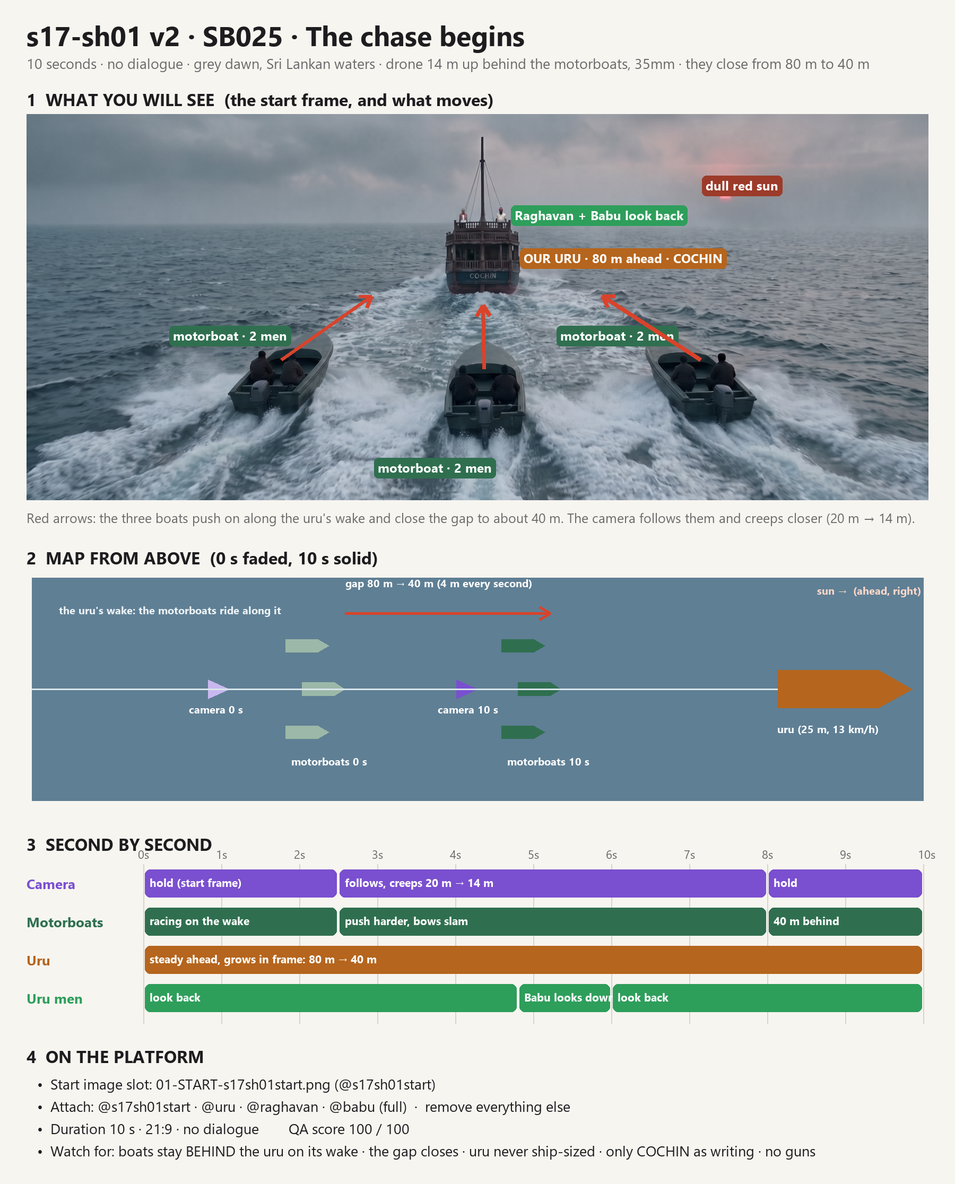
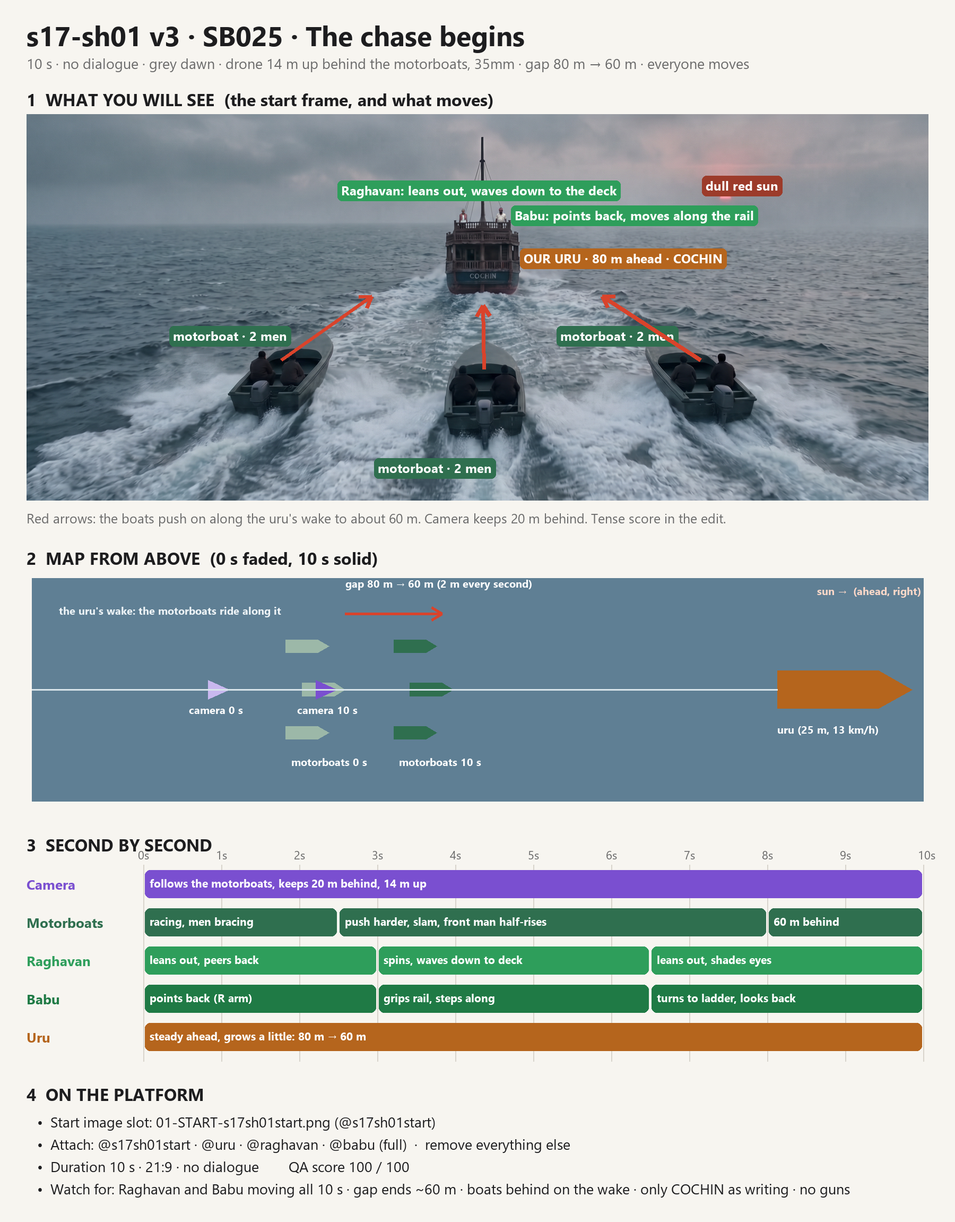
Ranjith: shot: s17-sh01 v3 (everyone moving per L83, gap 80 to 60 m, urgent sound; v2 take logged partial)

diff --git a/tools/shotsheets/s17-sh01.py b/tools/shotsheets/s17-sh01.py
@@ -16,8 +16,8 @@ def tag(xy, text, col, f=None):
     f = f or F(24, True); x, y = xy; tw = d.textlength(text, font=f)
     d.rounded_rectangle([x - 6, y - 4, x + tw + 8, y + 34], 8, fill=col); d.text((x + 1, y - 2), text, font=f, fill="white")
 
-d.text((50, 30), "s17-sh01 v2 · SB025 · The chase begins", font=F(52, True), fill=INK)
-d.text((50, 100), "10 seconds · no dialogue · grey dawn, Sri Lankan waters · drone 14 m up behind the motorboats, 35mm · they close from 80 m to 40 m", font=F(27), fill=GREY)
+d.text((50, 30), "s17-sh01 v3 · SB025 · The chase begins", font=F(52, True), fill=INK)
+d.text((50, 100), "10 s · no dialogue · grey dawn · drone 14 m up behind the motorboats, 35mm · gap 80 m → 60 m · everyone moves", font=F(27), fill=GREY)
 
 # 1. start frame with tags and arrows
 y0 = 165
@@ -27,13 +27,13 @@ fw = W - 100; fh = int(fr.height * fw / fr.width); fr = fr.resize((fw, fh)); ox,
 im.paste(fr, (ox, oy)); s = fw / 2000 * (3168 / 3136)
 P = lambda x, y: (ox + (x * 1.584 - 16) * fw / 3136, oy + y * 1.584 * fh / 1344)
 tag(P(1100, 300), "OUR URU · 80 m ahead · COCHIN", URU)
-tag(P(1080, 205), "Raghavan + Babu look back", MEN)
+tag(P(700, 150), "Raghavan: leans out, waves down to the deck", MEN); tag(P(1080, 205), "Babu: points back, moves along the rail", MEN)
 tag(P(330, 470), "motorboat · 2 men", MOT); tag(P(1180, 470), "motorboat · 2 men", MOT); tag(P(780, 760), "motorboat · 2 men", MOT)
 for bx, by in [(570, 540), (1015, 560), (1490, 540)]:
     arrow(P(bx, by), P(bx + (1010 - bx) * 0.45, by - 140), RED)
 tag(P(1500, 140), "dull red sun", "#9c3b2a")
 cy = oy + fh + 16
-d.text((50, cy), "Red arrows: the three boats push on along the uru's wake and close the gap to about 40 m. The camera follows them and creeps closer (20 m → 14 m).", font=F(25), fill=GREY)
+d.text((50, cy), "Red arrows: the boats push on along the uru's wake to about 60 m. Camera keeps 20 m behind. Tense score in the edit.", font=F(25), fill=GREY)
 
 # 2. map from above
 y1 = cy + 70
@@ -47,11 +47,11 @@ def boat(x, y, L, B, col):
 # 10 s positions (uru frame of reference: uru fixed)
 URU0 = 108   # uru stern x
 for t, alpha in [(0, True), (10, False)]:
-    lead = URU0 - (80 if t == 0 else 40) - 8
+    lead = URU0 - (80 if t == 0 else 60) - 8
     cols = "#9cb8a8" if alpha else MOT
     for dx, dy in [(0, 0), (-3, -8), (-3, 8)]:
         boat(lead + dx, dy, 8, 2.4, cols)
-    camx = lead - (20 if t == 0 else 14) + 4
+    camx = lead - 20 + 4
     c = M(camx, 0); col = "#c9b8ef" if alpha else CAM
     d.polygon([(c[0] + 26, c[1]), (c[0] - 14, c[1] - 18), (c[0] - 14, c[1] + 18)], fill=col)
     d.text((c[0] - 50, c[1] + 24), f"camera {t} s", font=F(20, True), fill="white")
@@ -59,7 +59,7 @@ for t, alpha in [(0, True), (10, False)]:
 boat(URU0, 0, 25, 7, URU); d.text(M(URU0, 6), "uru (25 m, 13 km/h)", font=F(20, True), fill="white")
 d.line([M(URU0, 0), M(-30, 0)], fill="#d8e4ea", width=3)
 d.text(M(-25, -16), "the uru's wake: the motorboats ride along it", font=F(20, True), fill="#eef4f7")
-arrow(M(URU0 - 80, -14), M(URU0 - 42, -14), RED, 5); d.text(M(URU0 - 80, -21), "gap 80 m → 40 m (4 m every second)", font=F(20, True), fill="white")
+arrow(M(URU0 - 80, -14), M(URU0 - 62, -14), RED, 5); d.text(M(URU0 - 80, -21), "gap 80 m → 60 m (2 m every second)", font=F(20, True), fill="white")
 d.text((mx + mw - 200, my + 10), "sun →  (ahead, right)", font=F(20, True), fill="#ffd9c9")
 
 # 3. timeline
@@ -67,11 +67,12 @@ y2 = my + mh + 60
 d.text((50, y2), "3  SECOND BY SECOND", font=F(32, True), fill=INK)
 tx, tw_ = 270, 1470; ty = y2 + 60
 for sec in range(11):
-    x = tx + tw_ * sec / 10; d.line([x, ty, x, ty + 300], fill="#d8d4cc", width=2); d.text((x - 10, ty - 34), f"{sec}s", font=F(22), fill=GREY)
-rows = [("Camera", CAM, [(0, 2.5, "hold (start frame)"), (2.5, 8, "follows, creeps 20 m → 14 m"), (8, 10, "hold")]),
-        ("Motorboats", MOT, [(0, 2.5, "racing on the wake"), (2.5, 8, "push harder, bows slam"), (8, 10, "40 m behind")]),
-        ("Uru", URU, [(0, 10, "steady ahead, grows in frame: 80 m → 40 m")]),
-        ("Uru men", MEN, [(0, 4.8, "look back"), (4.8, 6, "Babu looks down"), (6, 10, "look back")])]
+    x = tx + tw_ * sec / 10; d.line([x, ty, x, ty + 370], fill="#d8d4cc", width=2); d.text((x - 10, ty - 34), f"{sec}s", font=F(22), fill=GREY)
+rows = [("Camera", CAM, [(0, 10, "follows the motorboats, keeps 20 m behind, 14 m up")]),
+        ("Motorboats", MOT, [(0, 2.5, "racing, men bracing"), (2.5, 8, "push harder, slam, front man half-rises"), (8, 10, "60 m behind")]),
+        ("Raghavan", MEN, [(0, 3, "leans out, peers back"), (3, 6.5, "spins, waves down to deck"), (6.5, 10, "leans out, shades eyes")]),
+        ("Babu", "#1f7a45", [(0, 3, "points back (R arm)"), (3, 6.5, "grips rail, steps along"), (6.5, 10, "turns to ladder, looks back")]),
+        ("Uru", URU, [(0, 10, "steady ahead, grows a little: 80 m → 60 m")])]
 for i, (lab, col, segs) in enumerate(rows):
     yy = ty + 10 + i * 72; d.text((50, yy + 8), lab, font=F(26, True), fill=col)
     for a, b, t in segs:
@@ -79,12 +80,12 @@ for i, (lab, col, segs) in enumerate(rows):
         d.rounded_rectangle([x0 + 3, yy, x1 - 3, yy + 52], 10, fill=col); d.text((x0 + 12, yy + 10), t, font=F(21, True), fill="white")
 
 # 4. platform
-y3 = ty + 340
+y3 = ty + 410
 d.text((50, y3), "4  ON THE PLATFORM", font=F(32, True), fill=INK)
 lines = ["Start image slot: 01-START-s17sh01start.png (@s17sh01start)",
          "Attach: @s17sh01start · @uru · @raghavan · @babu (full)  ·  remove everything else",
          "Duration 10 s · 21:9 · no dialogue        QA score 100 / 100",
-         "Watch for: boats stay BEHIND the uru on its wake · the gap closes · uru never ship-sized · only COCHIN as writing · no guns"]
+         "Watch for: Raghavan and Babu moving all 10 s · gap ends ~60 m · boats behind on the wake · only COCHIN as writing · no guns"]
 for i, t in enumerate(lines): d.text((70, y3 + 55 + i * 42), "•  " + t, font=F(27), fill=INK)
 im = im.crop((0, 0, W, y3 + 55 + len(lines) * 42 + 40))
 im.save("scenes/showreel/storyboards/s17-sh01-clear.png"); print(im.size)

diff --git a/scenes/showreel/s17-sh01.md b/scenes/showreel/s17-sh01.md
@@ -1,80 +1,85 @@
-# s17-sh01 · SB025 (Ref 17–19) "Antony takes the helm" — the chase begins: three motorboats close on our uru · 10 s · v2
-Status: **ready (Ranjith, 2026-11-19)** · no dialogue · opens SB025 · v1 retired (`retired/s17-sh01-v1.md`)
+# s17-sh01 · SB025 (Ref 17–19) "Antony takes the helm" — the chase begins: three motorboats close on our uru · 10 s · v3
+Status: **ready (Ranjith, 2026-11-21)** · no dialogue · opens SB025 · v1 and v2 retired (`retired/s17-sh01-v1.md`, `retired/s17-sh01-v2.md`)
 Created by: Ranjith
-Brief (Ranjith, 2026-11-19; the two men on the uru are from the crew: Raghavan and Babu): the uru goes through Sri Lankan waters in an armed-group area and a chase starts; our uru with the motorboats behind it. Feedback on v1: it did not look like a chase (the boats ran parallel), the uru looked like a ship beside the motorboats, and there was no tension. Then: the motorboats start well back and come closer; two men per boat, boats as in his reference (covered pointed bow, small cockpit, one outboard); COCHIN on the uru's stern as on the four-view sheet.
-Camera (cinematographer, chosen by Ranjith: Use): high trailing chase. A drone about 14 m up just behind the three motorboats, 35mm, looking forward and down about 25 degrees; it follows them and slowly gains while they close on the uru.
+Brief (Ranjith, 2026-11-19; the two men on the uru are from the crew: Raghavan and Babu): the uru goes through Sri Lankan waters in an armed-group area and a chase starts; our uru with the motorboats behind it. Feedback on v1: no chase (boats parallel), uru like a ship, no tension. Then: motorboats start well back and come closer; two men per boat, boats as in his reference; COCHIN on the stern.
+Feedback on v2 (2026-11-21): the chase reads, but Raghavan and Babu look static (every character must keep moving, L83), and the gap between the motorboats and the uru should stay a little bigger. Music must be tense: decided as a tense score in the edit (team rule: no music in the generation); the clip's sound effects are made urgent (L141).
+Camera (cinematographer, chosen by Ranjith: Use): the same trailing chase, a drone 14 m up and about 20 m behind the middle motorboat, 35mm, tilted down about 25 degrees; it now holds its distance instead of creeping in; the gap closes only from about 80 m to about 60 m.
 Storyboard locks kept: no gunfire, no Navy; no flags, no weapons; the only writing is COCHIN on the uru's stern.
-Lessons applied: L168 (pursuers in the wake, gap closing in boat lengths, a look back, tense weather), L169 (uru size against the motorboats, no ship words), L88 (only these attachments).
+Lessons applied: L83 (nobody is a statue: continuous life for every person, no "still"), L141 (urgent sound and urgent movement), L168 Ranjith (pursuers in the wake, gap in boat lengths), L168 Aswanth (uru stern: propeller and rudder under water), L169 (uru size in motorboat lengths), L88 (only these attachments).
 Attach: `@s17sh01start` (start frame), `@uru` (full), `@raghavan` (full), `@babu` (full). Remove every other attachment (L88). **10 s.** 21:9, no dialogue.
-Left out: `@urubowplate` (night plate, and the bow is not seen); the other crew sheets (only Raghavan and Babu are on deck; Aashaan is at the wheel inside, Antony comes to him in the next shot); Ranjith's motorboat reference (not registered; the start frame carries the design).
+Left out: `@urubowplate` (night plate, the bow not seen); the other crew sheets (only Raghavan and Babu are on deck; Aashaan is at the wheel inside, Antony comes to him in the next shot); Ranjith's motorboat reference (not registered; the start frame carries the design).
 Attach folder: `scenes/showreel/attach/s17-sh01/`
 Storyboard: `scenes/showreel/storyboards/s17-sh01-clear.png` (never attached)
+Edit note (music): a tense score enters under this shot and runs across the whole chase (s17-sh01 into the helm shots), added in the edit, never in the generation.
 
 ## Geometry
-- Camera: 14 m up, 20 m behind the middle motorboat at 0 s, 14 m behind it at 10 s; 35mm, tilt down about 25 degrees.
-- Motorboats: three, 8 m each, in a loose wedge about 8 m apart, two men each; about 28 km/h.
-- Uru: 25 m long, 7 m wide (about three motorboat lengths and three widths); about 13 km/h; 80 m ahead of the motorboats at 0 s, 40 m at 10 s (they gain about 4 m every second).
-- In frame the uru's stern grows from about two thirds of a motorboat's width to about the same width.
+- Camera: 14 m up, about 20 m behind the middle motorboat the whole shot; 35mm, tilt down about 25 degrees.
+- Motorboats: three, 8 m each, in a loose wedge about 8 m apart, two men each; about 20 km/h.
+- Uru: 25 m long, 7 m wide (about three motorboat lengths and three widths); about 13 km/h; 80 m ahead of the motorboats at 0 s, about 60 m at 10 s (they gain about 2 m every second).
+- In frame the uru grows only a little: from about two thirds of a motorboat's width to about four fifths; it stays clearly far ahead.
 
 ## Prompt
 ```text
 SCENE CONTEXT
-Dawn, 1998, open sea in Sri Lankan waters, far from any shore. Three small motorboats chase our wooden uru and close in on it. One continuous trailing shot from just behind and above the motorboats, 10 seconds, no dialogue. Nobody speaks. The start frame shows the exact first moment.
+Dawn, 1998, open sea in Sri Lankan waters, far from any shore. Three small motorboats chase our wooden uru and slowly gain on it while the two crewmen on its top deck raise the alarm. One continuous trailing shot from just behind and above the motorboats, 10 seconds, no dialogue. Nobody speaks. The start frame shows the exact first moment. Every person in the frame is moving the whole time.
 
 MEMORY
 Place: open sea, no land anywhere, a steel-grey choppy sea with whitecaps and wind streaks on a long swell.
 Light: overcast grey dawn under low heavy cloud; a dull red sun disc low behind haze near the horizon at the upper right; cold, flat light.
 Boats: our uru far ahead in the upper middle, seen from behind; three motorboats in the lower half racing after it along its wake.
-People: two men crouched in each motorboat, seen from behind; two of our crew at the uru's top-deck rail, small and far, looking back: Raghavan on the left, Babu on the right. No face is readable.
+People: two men in each motorboat, seen from behind; two of our crew at the uru's top-deck rail, small and far: Raghavan on the left, Babu on the right. No face is readable.
 NOW (from the start frame): the uru about 80 m ahead of the motorboats, its stern facing us with COCHIN on it; the three motorboats in a loose wedge on its wake, the middle one about 20 m in front of the camera.
 
 ACTIVE REFERENCES
 @s17sh01start (start frame, 0.0s): the exact first frame: the sea, the sky and the red sun, the uru far ahead with COCHIN on its stern and Raghavan and Babu at its rail, the three motorboats with two men each, their wakes. Everything starts exactly as in this image.
-@raghavan (full, 0.0s–10.0s): Raghavan, the LEFT of the two men at the uru's top-deck rail, small and far: wiry, about 60, grey hair, white vest, the red-and-white checked towel round his neck. 100% matches the reference.
-@babu (full, 0.0s–10.0s): Babu, the RIGHT of the two men at the uru's top-deck rail, small and far: heavy-set, about 40, the red-and-white checked towel tied on his head, off-white half-sleeve shirt. 100% matches the reference.
+@raghavan (full, 0.0s–10.0s): Raghavan, the LEFT of the two men on the uru's top deck, small and far: wiry, about 60, grey hair, white vest, the red-and-white checked towel round his neck. 100% matches the reference.
+@babu (full, 0.0s–10.0s): Babu, the RIGHT of the two men on the uru's top deck, small and far: heavy-set, about 40, the red-and-white checked towel tied on his head, off-white half-sleeve shirt. 100% matches the reference.
 @uru (full, 0.0s–10.0s): our uru exactly as on this sheet, seen from directly behind: the weathered blue-grey wooden hull with rust streaks, the rust-red weathered lower hull, the dark blue band under the lower balustrade with the white capital letters COCHIN, the carved two-level wooden deckhouse with turned-post balustrades and the small top deck, the single tall mast and its rigging. 100% matches the reference.
 
 THE THREE MOTORBOATS
-Exactly three motorboats, all the same design as in the start frame: about 8 m long, dark grey-green hulls, a covered pointed bow deck over the front third, a low cockpit behind it, one plain grey outboard engine at the back with no markings. Exactly two men in each, crouched low in plain dark clothes, backs to the camera. No flags, no lettering, no numbers, no weapons. They race in a loose wedge, about 8 m apart, the middle one slightly ahead, all aimed at the uru's stern; their bows lift and slam on the chop, throwing white spray to both sides, and each tears a bright white wake back toward the camera.
+Exactly three motorboats, all the same design as in the start frame: about 8 m long, dark grey-green hulls, a covered pointed bow deck over the front third, a low cockpit behind it, one plain grey outboard engine at the back with no markings. Exactly two men in each, in plain dark clothes, backs to the camera: in each boat the man at the back has one hand on the outboard's tiller and steers, the man in front braces against the cockpit side. No flags, no lettering, no numbers, no weapons. They race in a loose wedge, about 8 m apart, the middle one slightly ahead, all aimed at the uru's stern; their bows lift and slam on the chop, throwing white spray to both sides, and each tears a bright white wake back toward the camera.
 
-THE GAP CLOSES (most important)
-This is a chase: the three motorboats ride the uru's own wide, foamy wake, on its line, aimed straight at its stern, and they gain on it the whole time. The gap shrinks steadily from about 80 m (ten motorboat lengths) at 0.0s to about 40 m (five motorboat lengths) at 10.0s, about 4 m every second. Because the uru comes nearer, it grows in the frame: at 0.0s its stern looks narrower than the nearest motorboat; by 10.0s it looks about as wide as a motorboat, its deckhouse, the two men at its rail and the letters COCHIN clearer. The uru is a wooden working boat about three motorboat lengths long, never bigger. The motorboats stay behind it on its wake; they never come level with it or pull alongside.
+THE CREW RAISES THE ALARM (most important)
+Raghavan and Babu move every moment; small as they are, their movement must read clearly at this distance. 0.0s–3.0s: Raghavan leans out over the rail with both hands on it, shoulders forward, peering back at the motorboats; Babu, beside him, flings his RIGHT arm out straight, pointing back at the boats, his head turning to Raghavan and back. 3.0s–6.5s: Raghavan straightens, spins half round toward the deck below and waves his right arm down hard, twice, signalling to the men below; Babu drops his arm, grips the rail with both hands and steps sideways along it, twisting to look back over his shoulder. 6.5s–10.0s: Raghavan swings back to the rail and leans out again, one hand shading his eyes, the other gripping the rail; Babu pushes off the rail and turns toward the ladder side, then looks back once more. Both sway with the uru's roll the whole time.
+
+THE GAP
+This is a chase: the three motorboats ride the uru's own wide, foamy wake, on its line, aimed straight at its stern, and they gain on it slowly. The gap shrinks only from about 80 m (ten motorboat lengths) at 0.0s to about 60 m (seven and a half motorboat lengths) at 10.0s, about 2 m every second. The uru stays clearly far ahead the whole shot and grows only a little in the frame. It is a wooden working boat about three motorboat lengths long, never bigger. The motorboats stay behind it on its wake; they never come level with it.
 
 FORMAT MODE
 One continuous shot, 10 seconds, real time, no cut, no slow motion, 21:9 cinematic. Runs the full 10 seconds.
 
 CAMERA AND ACTION
-The camera is a drone about 14 m above the water, just behind the three motorboats and centred on the middle one, looking forward and down about 25 degrees, a 35mm lens, the horizon about one fifth from the top of the frame. It flies forward with the motorboats and slowly gains on them, from about 20 m behind the middle boat to about 14 m; the horizon stays level.
-0.0s to 2.5s — Hold on the start frame as it comes to life: the three motorboats race away from the camera, spray bursting at their bows; the uru far ahead in the upper middle, its wake trailing back toward them; the two men at the uru's top-deck rail looking back at them.
-2.5s to 8.0s — The motorboats push harder; the bow of the middle one lifts and slaps down twice; the two side boats edge slightly inward toward the uru's wake. The camera keeps pace and creeps closer to them. The uru grows in the frame as the gap closes; at about 5.0s Babu turns his head toward the deck below for a moment, then looks back at the motorboats again.
-8.0s to 10.0s — Hold: the motorboats about 40 m behind the uru's stern, still gaining; the uru now clearly nearer, COCHIN readable on its stern; the camera moving with them at the same speed.
+The camera is a drone about 14 m above the water and about 20 m behind the middle motorboat, centred on it, looking forward and down about 25 degrees, a 35mm lens, the horizon about one fifth from the top of the frame. It flies forward at the motorboats' speed and keeps its distance from them; the horizon stays level.
+0.0s to 2.5s — The start frame comes to life at once: the motorboats race away from the camera, spray bursting at their bows, the men in them swaying and bracing; far ahead, Raghavan leans out over the rail and Babu flings his arm out pointing back at them.
+2.5s to 8.0s — The motorboats push harder; the middle boat's bow lifts and slaps down twice, its two men lurching forward and catching themselves; in the left boat the front man half-rises, one hand on the bow deck, to look ahead, then crouches again; in the right boat the steersman leans out to glance past the bow. Far ahead, Raghavan spins half round and waves his arm hard down toward the deck; Babu grips the rail and steps along it, looking back over his shoulder. The gap closes slowly.
+8.0s to 10.0s — The motorboats about 60 m behind the uru, still gaining, the men in them bracing and shifting with every slam; Raghavan leaning out again, hand shading his eyes; Babu turning toward the ladder side and looking back; the camera moving with the motorboats at the same speed.
 
 EYELINES
-The six men in the motorboats face forward toward the uru's stern the whole time; their faces are never seen. Raghavan (left) and Babu (right) on the uru's top deck face back toward the motorboats (toward the camera side), level, small and far, faces unreadable; at about 5.0s Babu turns his head down toward the deck for about a second, then looks back. Nobody looks up at the camera.
+The men in the motorboats face forward toward the uru's stern; the front man in the left boat lifts his head to look ahead at about 4.0s; their faces are never seen. Raghavan looks back at the motorboats (toward the camera side) except from about 3.5s to 5.5s, when he turns to look down at the deck below; Babu looks back at the boats, glances at Raghavan at about 1.5s, and looks back over his shoulder while he moves along the rail. Faces too small to read. Nobody looks up at the camera.
 
 CAPTURE IMPERFECTIONS
 A constant slight buffeting of the frame in the sea wind; 3.5s a burst of spray from the middle boat's bow hits the lens and a few drops run off over the next second; 6.0s a gust shakes the frame for half a second; a fine haze of spray hangs over the wakes throughout.
 
 REAL-WORLD PHYSICS
-Real sea at real scale: long swells about 30 m apart under a short, steep chop. The uru, about 30 tonnes of wood, moves heavily at about 13 km/h, rolling slowly on the swell, its stern lifting and settling every 4–5 s, its wake a wide band of churned white foam fading behind it. The motorboats, each about 2 tonnes, run at about 28 km/h: their bows rise over each wave and slam down, throwing sheets of spray about 2 m to each side, their outboards dig narrow, boiling white wakes; the two men in each boat sway with every slam and hold on. The gap closes by about 4 m every second. Wind about 30 km/h tears the tops off the whitecaps. Nothing moves by itself; every movement has a cause.
+Real sea at real scale: long swells about 30 m apart under a short, steep chop. The uru, about 30 tonnes of wood, moves heavily at about 13 km/h, rolling slowly about 3 degrees on the swell, its stern lifting and settling every 4–5 s, its propeller and rudder always under water, hidden in its white wash, its wake a wide band of churned foam. The two men on its top deck sway with each roll, knees soft. The motorboats, each about 2 tonnes, run at about 20 km/h into the chop: their bows rise over each wave and slam down, throwing sheets of spray about 2 m to each side; the men in them lurch forward on every slam and brace with their hands and knees. The gap closes by about 2 m every second. Wind about 30 km/h tears the tops off the whitecaps and flaps the men's clothes and the towels on Raghavan and Babu. Nothing moves by itself; every movement has a cause.
 
 PERFORMANCE
-The men in the motorboats crouch low and still, braced, purposeful, all leaning toward the uru. Raghavan and Babu stand gripping their rail, tense, watching. No waving, no weapons, no shouting faces.
+Urgent, real and loose, never stiff or mechanical; everybody keeps moving. Raghavan and Babu are alarmed men raising the alarm: quick, big, clear movements of arms, heads and bodies, always swaying with the roll, always on the move at the rail. The men in the motorboats are tense and purposeful: they lean toward the uru, steer, brace, half-rise and crouch, their bodies thrown about by the chop. No weapons, no shouting faces.
 
 LIGHTING
-Overcast dawn, cold flat light about 6500K over the sea and the boats; the low red sun about 2000K, a dull disc behind haze at the upper right, giving only a faint red glow to the cloud around it and a thin red sheen on the sea beneath it; the white spray and foam bright but never blown out; the uru's stern in soft shadow, its letters pale against the dark blue band; no golden light, no warm sparkle.
+Overcast dawn, cold flat light about 6500K over the sea and the boats; the low red sun about 2000K, a dull disc behind haze at the upper right, giving only a faint red glow to the cloud around it and a thin red sheen on the sea beneath it; the white spray and foam bright but never blown out; the uru's stern in soft shadow, its letters pale against the dark blue band; Raghavan's white vest and Babu's off-white shirt catching the flat light so their movement reads; no golden light, no warm sparkle.
 
 AUDIO
-Sound effects only — natural on-location sound, the soundtrack carries no music. No music at all: no score, no song, no humming, and no cinematic sound design: no riser, no whoosh, no drum, no swell. Three outboard engines screaming close in front of the camera, rising as they push harder at 2.5s; the slap and crash of their hulls on the chop and the hiss of spray; strong wind buffeting; far ahead, the low, slow thump of the uru's engine. Nobody speaks.
+Sound effects only — natural on-location sound, the soundtrack carries no music. No music at all: no score, no song, no humming, and no cinematic sound design: no riser, no whoosh, no drum, no swell. The sound is urgent: three outboard engines screaming close in front of the camera, rising to a harder pitch at 2.5s; the crack and slam of their hulls on the chop and the hiss of spray; strong wind buffeting the camera; far ahead, the low, labouring thump of the uru's engine. Nobody speaks; no words are heard.
 
 STYLE
 Photoreal 1998 period feature film, 24fps, fine 35mm grain, gentle halation on the red sun and the white spray, real textures of wet fibreglass, wood, foam and water, no smoothing. Shot on a Sony Venice 2 full-frame digital cinema camera: very wide dynamic range that holds the brightest light and the deepest shade in one frame; clean, low-noise shadows; soft, gradual highlight roll-off; accurate, natural colour with rich, true skin tones; gentle filmic contrast; fine, organic texture; no over-sharpening, no glossy or video look. Cold, grey and tense.
 
 CONSTRAINTS
-The motorboats stay behind the uru on its wake the whole shot; they never pass it, never come level with it, never turn away. The uru stays the same boat as @uru, a wooden boat about three motorboat lengths long, never bigger. The only writing in the frame is COCHIN on the uru's stern; no flags, no numbers, no logos, no writing on the motorboats or their engines. No gunfire, no muzzle flash, no smoke, no weapons, no Navy boats, no aircraft, no land. No faces readable, nobody looks at the camera. No cut, no zoom.
+Every one of the eight people in the frame moves continuously, from the first frame to the last. The motorboats stay behind the uru on its wake the whole shot, about 60 m back at the end; they never pass it, never come level with it, never turn away. The uru stays the same boat as @uru, a wooden boat about three motorboat lengths long, never bigger; its propeller and rudder stay under water. The only writing in the frame is COCHIN on the uru's stern; no flags, no numbers, no logos, no writing on the motorboats or their engines. No gunfire, no muzzle flash, no smoke, no weapons, no Navy boats, no aircraft, no land. No faces readable, nobody looks at the camera. No cut, no zoom.
 
 POSITIVE LOCKS
-Exactly one uru, as on @uru, seen from behind, COCHIN on its stern, exactly two men at its top-deck rail: Raghavan left, Babu right. Exactly three motorboats as in the start frame, exactly two men in each, in a loose wedge on the uru's wake. The gap closes from about 80 m to about 40 m. One continuous trailing drone shot, 14 m up, 35mm, the camera slowly gaining. Overcast grey dawn, dull red sun at the upper right. Runs the full 10 seconds.
+Exactly one uru, as on @uru, seen from behind, COCHIN on its stern, exactly two men on its top deck: Raghavan left, Babu right, both moving the whole time. Exactly three motorboats as in the start frame, exactly two men in each, steering and bracing, in a loose wedge on the uru's wake. The gap closes only from about 80 m to about 60 m. One continuous trailing drone shot, 14 m up, 35mm, the camera keeping its distance. Overcast grey dawn, dull red sun at the upper right. Runs the full 10 seconds.
 ```
 
 ## Settings
@@ -83,9 +88,11 @@ Exactly one uru, as on @uru, seen from behind, COCHIN on its stern, exactly two 
 - Start image: `@s17sh01start` (01-START in the attach folder)
 - Dialogue: none (dubbing language Malayalam for the scene)
 - Attach: `@s17sh01start`, `@uru` (full), `@raghavan` (full), `@babu` (full)
+- Music: none in the generation; tense score in the edit across the chase
 
 ## QC
-PROMPT QA — s17-sh01 v2 · Score 100/100 · Ready (qc_panel.py 100). Asks met: a chase with the boats on the uru's wake (THE GAP CLOSES); boats start far (80 m) and come closer (40 m); two men per boat; boat design from the start frame; COCHIN on the stern; tense grey weather; uru size in motorboat lengths (L169). @uru registered; @s17sh01start approved by Ranjith (2026-11-19) and registered in INDEX.md; image QA `image-qa/sb025-chase-qc.md` (94). Image QA of the start frame: chase line, scale, two men each, COCHIN, covered bows, engine markings removed; the two men at the uru's rail made Raghavan (towel round the neck, white vest, grey hair) and Babu (head towel, off-white shirt) by a masked edit pasted into the frame — no open mismatch.
+PROMPT QA — s17-sh01 v3 · Score 100/100 · Ready (qc_panel.py 100). Asks met: Raghavan and Babu moving the whole shot (THE CREW RAISES THE ALARM, most important) and every other person moving (L83, no 'still / frozen' for a person); gap kept bigger, 80 m to 60 m (THE GAP); tense music decided as an edit score, clip sound urgent (L141); propeller under water (Aswanth's L168). IDs all registered.
 
 ## Generation results
 - v1 [failed] high three-quarter view instead of straight down; three motorboats side by side and level with the uru, off its line (no chase); the uru ship-sized (~16x a motorboat); warm golden glassy sea, no tension. Frame: `scenes/showreel/evidence/s17-sh01-v1/frame.webp`. Lessons L168, L169.
+- v2 [partial] the chase reads: boats on the uru's wake, grey tense dawn, COCHIN, two men per boat; but Raghavan and Babu stood static at the rail (the prompt wrote them "gripping their rail" and the motorboat men "crouch low and still", against L83), and the gap closed too much (to about 40 m). Frame: `scenes/showreel/evidence/s17-sh01-v2/frame.webp`.

diff --git a/scenes/showreel/retired/s17-sh01-v2.md b/scenes/showreel/retired/s17-sh01-v2.md
@@ -1,0 +1,91 @@
+# s17-sh01 · SB025 (Ref 17–19) "Antony takes the helm" — the chase begins: three motorboats close on our uru · 10 s · v2
+Status: **ready (Ranjith, 2026-11-19)** · no dialogue · opens SB025 · v1 retired (`retired/s17-sh01-v1.md`)
+Created by: Ranjith
+Brief (Ranjith, 2026-11-19; the two men on the uru are from the crew: Raghavan and Babu): the uru goes through Sri Lankan waters in an armed-group area and a chase starts; our uru with the motorboats behind it. Feedback on v1: it did not look like a chase (the boats ran parallel), the uru looked like a ship beside the motorboats, and there was no tension. Then: the motorboats start well back and come closer; two men per boat, boats as in his reference (covered pointed bow, small cockpit, one outboard); COCHIN on the uru's stern as on the four-view sheet.
+Camera (cinematographer, chosen by Ranjith: Use): high trailing chase. A drone about 14 m up just behind the three motorboats, 35mm, looking forward and down about 25 degrees; it follows them and slowly gains while they close on the uru.
+Storyboard locks kept: no gunfire, no Navy; no flags, no weapons; the only writing is COCHIN on the uru's stern.
+Lessons applied: L168 (pursuers in the wake, gap closing in boat lengths, a look back, tense weather), L169 (uru size against the motorboats, no ship words), L88 (only these attachments).
+Attach: `@s17sh01start` (start frame), `@uru` (full), `@raghavan` (full), `@babu` (full). Remove every other attachment (L88). **10 s.** 21:9, no dialogue.
+Left out: `@urubowplate` (night plate, and the bow is not seen); the other crew sheets (only Raghavan and Babu are on deck; Aashaan is at the wheel inside, Antony comes to him in the next shot); Ranjith's motorboat reference (not registered; the start frame carries the design).
+Attach folder: `scenes/showreel/attach/s17-sh01/`
+Storyboard: `scenes/showreel/storyboards/s17-sh01-clear.png` (never attached)
+
+## Geometry
+- Camera: 14 m up, 20 m behind the middle motorboat at 0 s, 14 m behind it at 10 s; 35mm, tilt down about 25 degrees.
+- Motorboats: three, 8 m each, in a loose wedge about 8 m apart, two men each; about 28 km/h.
+- Uru: 25 m long, 7 m wide (about three motorboat lengths and three widths); about 13 km/h; 80 m ahead of the motorboats at 0 s, 40 m at 10 s (they gain about 4 m every second).
+- In frame the uru's stern grows from about two thirds of a motorboat's width to about the same width.
+
+## Prompt
+```text
+SCENE CONTEXT
+Dawn, 1998, open sea in Sri Lankan waters, far from any shore. Three small motorboats chase our wooden uru and close in on it. One continuous trailing shot from just behind and above the motorboats, 10 seconds, no dialogue. Nobody speaks. The start frame shows the exact first moment.
+
+MEMORY
+Place: open sea, no land anywhere, a steel-grey choppy sea with whitecaps and wind streaks on a long swell.
+Light: overcast grey dawn under low heavy cloud; a dull red sun disc low behind haze near the horizon at the upper right; cold, flat light.
+Boats: our uru far ahead in the upper middle, seen from behind; three motorboats in the lower half racing after it along its wake.
+People: two men crouched in each motorboat, seen from behind; two of our crew at the uru's top-deck rail, small and far, looking back: Raghavan on the left, Babu on the right. No face is readable.
+NOW (from the start frame): the uru about 80 m ahead of the motorboats, its stern facing us with COCHIN on it; the three motorboats in a loose wedge on its wake, the middle one about 20 m in front of the camera.
+
+ACTIVE REFERENCES
+@s17sh01start (start frame, 0.0s): the exact first frame: the sea, the sky and the red sun, the uru far ahead with COCHIN on its stern and Raghavan and Babu at its rail, the three motorboats with two men each, their wakes. Everything starts exactly as in this image.
+@raghavan (full, 0.0s–10.0s): Raghavan, the LEFT of the two men at the uru's top-deck rail, small and far: wiry, about 60, grey hair, white vest, the red-and-white checked towel round his neck. 100% matches the reference.
+@babu (full, 0.0s–10.0s): Babu, the RIGHT of the two men at the uru's top-deck rail, small and far: heavy-set, about 40, the red-and-white checked towel tied on his head, off-white half-sleeve shirt. 100% matches the reference.
+@uru (full, 0.0s–10.0s): our uru exactly as on this sheet, seen from directly behind: the weathered blue-grey wooden hull with rust streaks, the rust-red weathered lower hull, the dark blue band under the lower balustrade with the white capital letters COCHIN, the carved two-level wooden deckhouse with turned-post balustrades and the small top deck, the single tall mast and its rigging. 100% matches the reference.
+
+THE THREE MOTORBOATS
+Exactly three motorboats, all the same design as in the start frame: about 8 m long, dark grey-green hulls, a covered pointed bow deck over the front third, a low cockpit behind it, one plain grey outboard engine at the back with no markings. Exactly two men in each, crouched low in plain dark clothes, backs to the camera. No flags, no lettering, no numbers, no weapons. They race in a loose wedge, about 8 m apart, the middle one slightly ahead, all aimed at the uru's stern; their bows lift and slam on the chop, throwing white spray to both sides, and each tears a bright white wake back toward the camera.
+
+THE GAP CLOSES (most important)
+This is a chase: the three motorboats ride the uru's own wide, foamy wake, on its line, aimed straight at its stern, and they gain on it the whole time. The gap shrinks steadily from about 80 m (ten motorboat lengths) at 0.0s to about 40 m (five motorboat lengths) at 10.0s, about 4 m every second. Because the uru comes nearer, it grows in the frame: at 0.0s its stern looks narrower than the nearest motorboat; by 10.0s it looks about as wide as a motorboat, its deckhouse, the two men at its rail and the letters COCHIN clearer. The uru is a wooden working boat about three motorboat lengths long, never bigger. The motorboats stay behind it on its wake; they never come level with it or pull alongside.
+
+FORMAT MODE
+One continuous shot, 10 seconds, real time, no cut, no slow motion, 21:9 cinematic. Runs the full 10 seconds.
+
+CAMERA AND ACTION
+The camera is a drone about 14 m above the water, just behind the three motorboats and centred on the middle one, looking forward and down about 25 degrees, a 35mm lens, the horizon about one fifth from the top of the frame. It flies forward with the motorboats and slowly gains on them, from about 20 m behind the middle boat to about 14 m; the horizon stays level.
+0.0s to 2.5s — Hold on the start frame as it comes to life: the three motorboats race away from the camera, spray bursting at their bows; the uru far ahead in the upper middle, its wake trailing back toward them; the two men at the uru's top-deck rail looking back at them.
+2.5s to 8.0s — The motorboats push harder; the bow of the middle one lifts and slaps down twice; the two side boats edge slightly inward toward the uru's wake. The camera keeps pace and creeps closer to them. The uru grows in the frame as the gap closes; at about 5.0s Babu turns his head toward the deck below for a moment, then looks back at the motorboats again.
+8.0s to 10.0s — Hold: the motorboats about 40 m behind the uru's stern, still gaining; the uru now clearly nearer, COCHIN readable on its stern; the camera moving with them at the same speed.
+
+EYELINES
+The six men in the motorboats face forward toward the uru's stern the whole time; their faces are never seen. Raghavan (left) and Babu (right) on the uru's top deck face back toward the motorboats (toward the camera side), level, small and far, faces unreadable; at about 5.0s Babu turns his head down toward the deck for about a second, then looks back. Nobody looks up at the camera.
+
+CAPTURE IMPERFECTIONS
+A constant slight buffeting of the frame in the sea wind; 3.5s a burst of spray from the middle boat's bow hits the lens and a few drops run off over the next second; 6.0s a gust shakes the frame for half a second; a fine haze of spray hangs over the wakes throughout.
+
+REAL-WORLD PHYSICS
+Real sea at real scale: long swells about 30 m apart under a short, steep chop. The uru, about 30 tonnes of wood, moves heavily at about 13 km/h, rolling slowly on the swell, its stern lifting and settling every 4–5 s, its wake a wide band of churned white foam fading behind it. The motorboats, each about 2 tonnes, run at about 28 km/h: their bows rise over each wave and slam down, throwing sheets of spray about 2 m to each side, their outboards dig narrow, boiling white wakes; the two men in each boat sway with every slam and hold on. The gap closes by about 4 m every second. Wind about 30 km/h tears the tops off the whitecaps. Nothing moves by itself; every movement has a cause.
+
+PERFORMANCE
+The men in the motorboats crouch low and still, braced, purposeful, all leaning toward the uru. Raghavan and Babu stand gripping their rail, tense, watching. No waving, no weapons, no shouting faces.
+
+LIGHTING
+Overcast dawn, cold flat light about 6500K over the sea and the boats; the low red sun about 2000K, a dull disc behind haze at the upper right, giving only a faint red glow to the cloud around it and a thin red sheen on the sea beneath it; the white spray and foam bright but never blown out; the uru's stern in soft shadow, its letters pale against the dark blue band; no golden light, no warm sparkle.
+
+AUDIO
+Sound effects only — natural on-location sound, the soundtrack carries no music. No music at all: no score, no song, no humming, and no cinematic sound design: no riser, no whoosh, no drum, no swell. Three outboard engines screaming close in front of the camera, rising as they push harder at 2.5s; the slap and crash of their hulls on the chop and the hiss of spray; strong wind buffeting; far ahead, the low, slow thump of the uru's engine. Nobody speaks.
+
+STYLE
+Photoreal 1998 period feature film, 24fps, fine 35mm grain, gentle halation on the red sun and the white spray, real textures of wet fibreglass, wood, foam and water, no smoothing. Shot on a Sony Venice 2 full-frame digital cinema camera: very wide dynamic range that holds the brightest light and the deepest shade in one frame; clean, low-noise shadows; soft, gradual highlight roll-off; accurate, natural colour with rich, true skin tones; gentle filmic contrast; fine, organic texture; no over-sharpening, no glossy or video look. Cold, grey and tense.
+
+CONSTRAINTS
+The motorboats stay behind the uru on its wake the whole shot; they never pass it, never come level with it, never turn away. The uru stays the same boat as @uru, a wooden boat about three motorboat lengths long, never bigger. The only writing in the frame is COCHIN on the uru's stern; no flags, no numbers, no logos, no writing on the motorboats or their engines. No gunfire, no muzzle flash, no smoke, no weapons, no Navy boats, no aircraft, no land. No faces readable, nobody looks at the camera. No cut, no zoom.
+
+POSITIVE LOCKS
+Exactly one uru, as on @uru, seen from behind, COCHIN on its stern, exactly two men at its top-deck rail: Raghavan left, Babu right. Exactly three motorboats as in the start frame, exactly two men in each, in a loose wedge on the uru's wake. The gap closes from about 80 m to about 40 m. One continuous trailing drone shot, 14 m up, 35mm, the camera slowly gaining. Overcast grey dawn, dull red sun at the upper right. Runs the full 10 seconds.
+```
+
+## Settings
+- **Duration: 10 s**
+- Aspect ratio 21:9
+- Start image: `@s17sh01start` (01-START in the attach folder)
+- Dialogue: none (dubbing language Malayalam for the scene)
+- Attach: `@s17sh01start`, `@uru` (full), `@raghavan` (full), `@babu` (full)
+
+## QC
+PROMPT QA — s17-sh01 v2 · Score 100/100 · Ready (qc_panel.py 100). Asks met: a chase with the boats on the uru's wake (THE GAP CLOSES); boats start far (80 m) and come closer (40 m); two men per boat; boat design from the start frame; COCHIN on the stern; tense grey weather; uru size in motorboat lengths (L169). @uru registered; @s17sh01start approved by Ranjith (2026-11-19) and registered in INDEX.md; image QA `image-qa/sb025-chase-qc.md` (94). Image QA of the start frame: chase line, scale, two men each, COCHIN, covered bows, engine markings removed; the two men at the uru's rail made Raghavan (towel round the neck, white vest, grey hair) and Babu (head towel, off-white shirt) by a masked edit pasted into the frame — no open mismatch.
+
+## Generation results
+- v1 [failed] high three-quarter view instead of straight down; three motorboats side by side and level with the uru, off its line (no chase); the uru ship-sized (~16x a motorboat); warm golden glassy sea, no tension. Frame: `scenes/showreel/evidence/s17-sh01-v1/frame.webp`. Lessons L168, L169.
